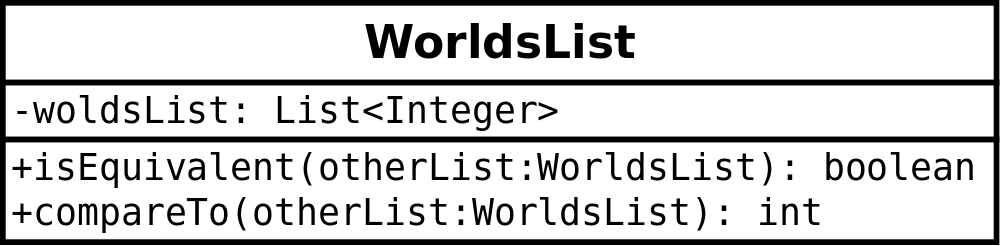
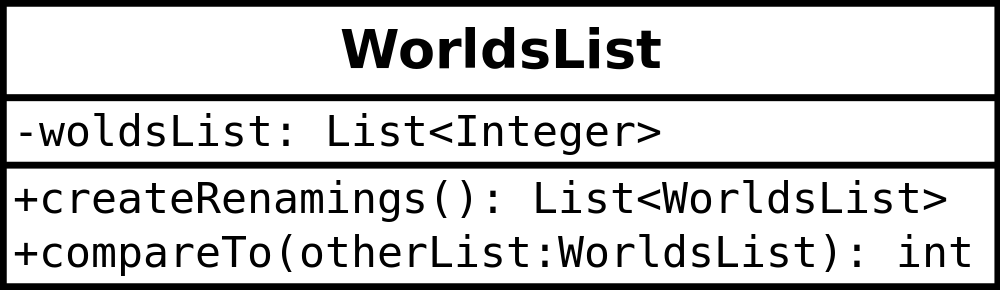
updated worldslist diagram

Changed region(s): [[0.0, 0.0, 1.0, 1.0], [0.0, 0.7967, 0.868, 0.939], [0.341, 0.0854, 0.682, 0.2561]]

diff --git a/ma.tex b/ma.tex
@@ -303,7 +303,7 @@ Außerdem ist die Nummer des Konditionals gemäß der Ordnung $\rdotl$ gemäß D
 Die Klasse WConditional ist ebenfalls sortierbar mit dem Interface \textit{Comparable}, die Implementierung der \textit{compareTo(Object 0)} Methode ist in \autoref{compare-wconditonal} gezeigt. Die Implementierung entspricht damit genau der Sortierung nach $\overset{\mathrm{c}}{\dotll}$ wie in \autoref{conditional-order} beschrieben.
 
 
-\begin{figure}[h]
+\begin{figure}
 \includegraphics[width=0.45\linewidth]{bilder/wconditional.png}
 \caption{WConditional}
 \label{wconditional}
@@ -322,7 +322,7 @@ Die Klasse WConditional ist ebenfalls sortierbar mit dem Interface \textit{Compa
 \caption{Implementierung compareTo(Object o) der Klasse WConditional}
 \label{compare-wconditonal}
 \end{figure} 
-todo: create renamings beschreiben! eventuell was dazu in den theorie teil?
+: create renamings beschreiben! eventuell was dazu in den theorie teil?
 
 
 
